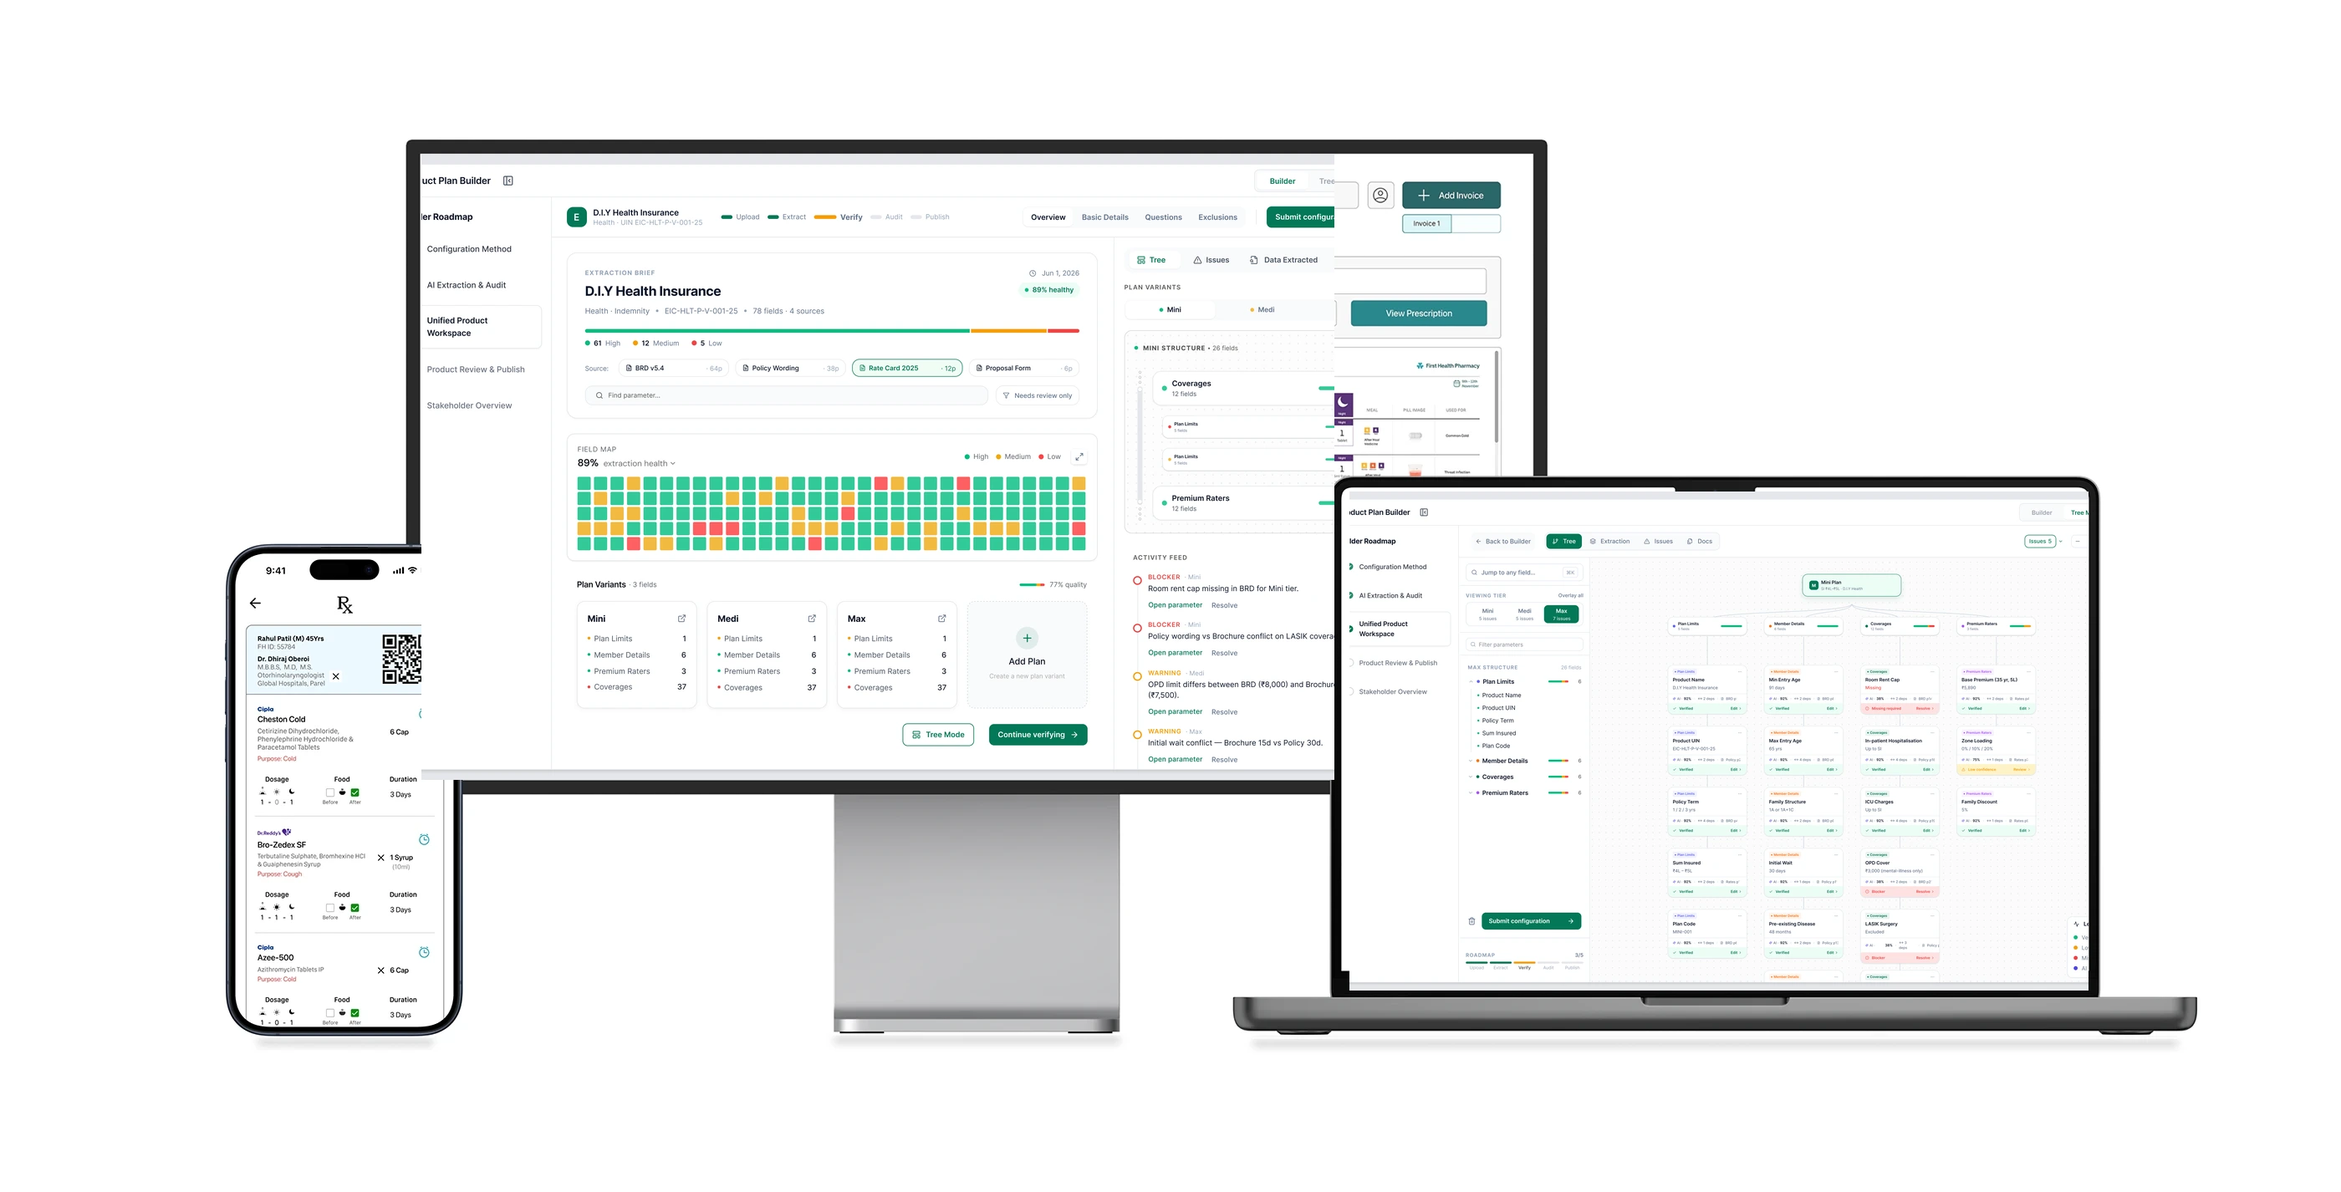
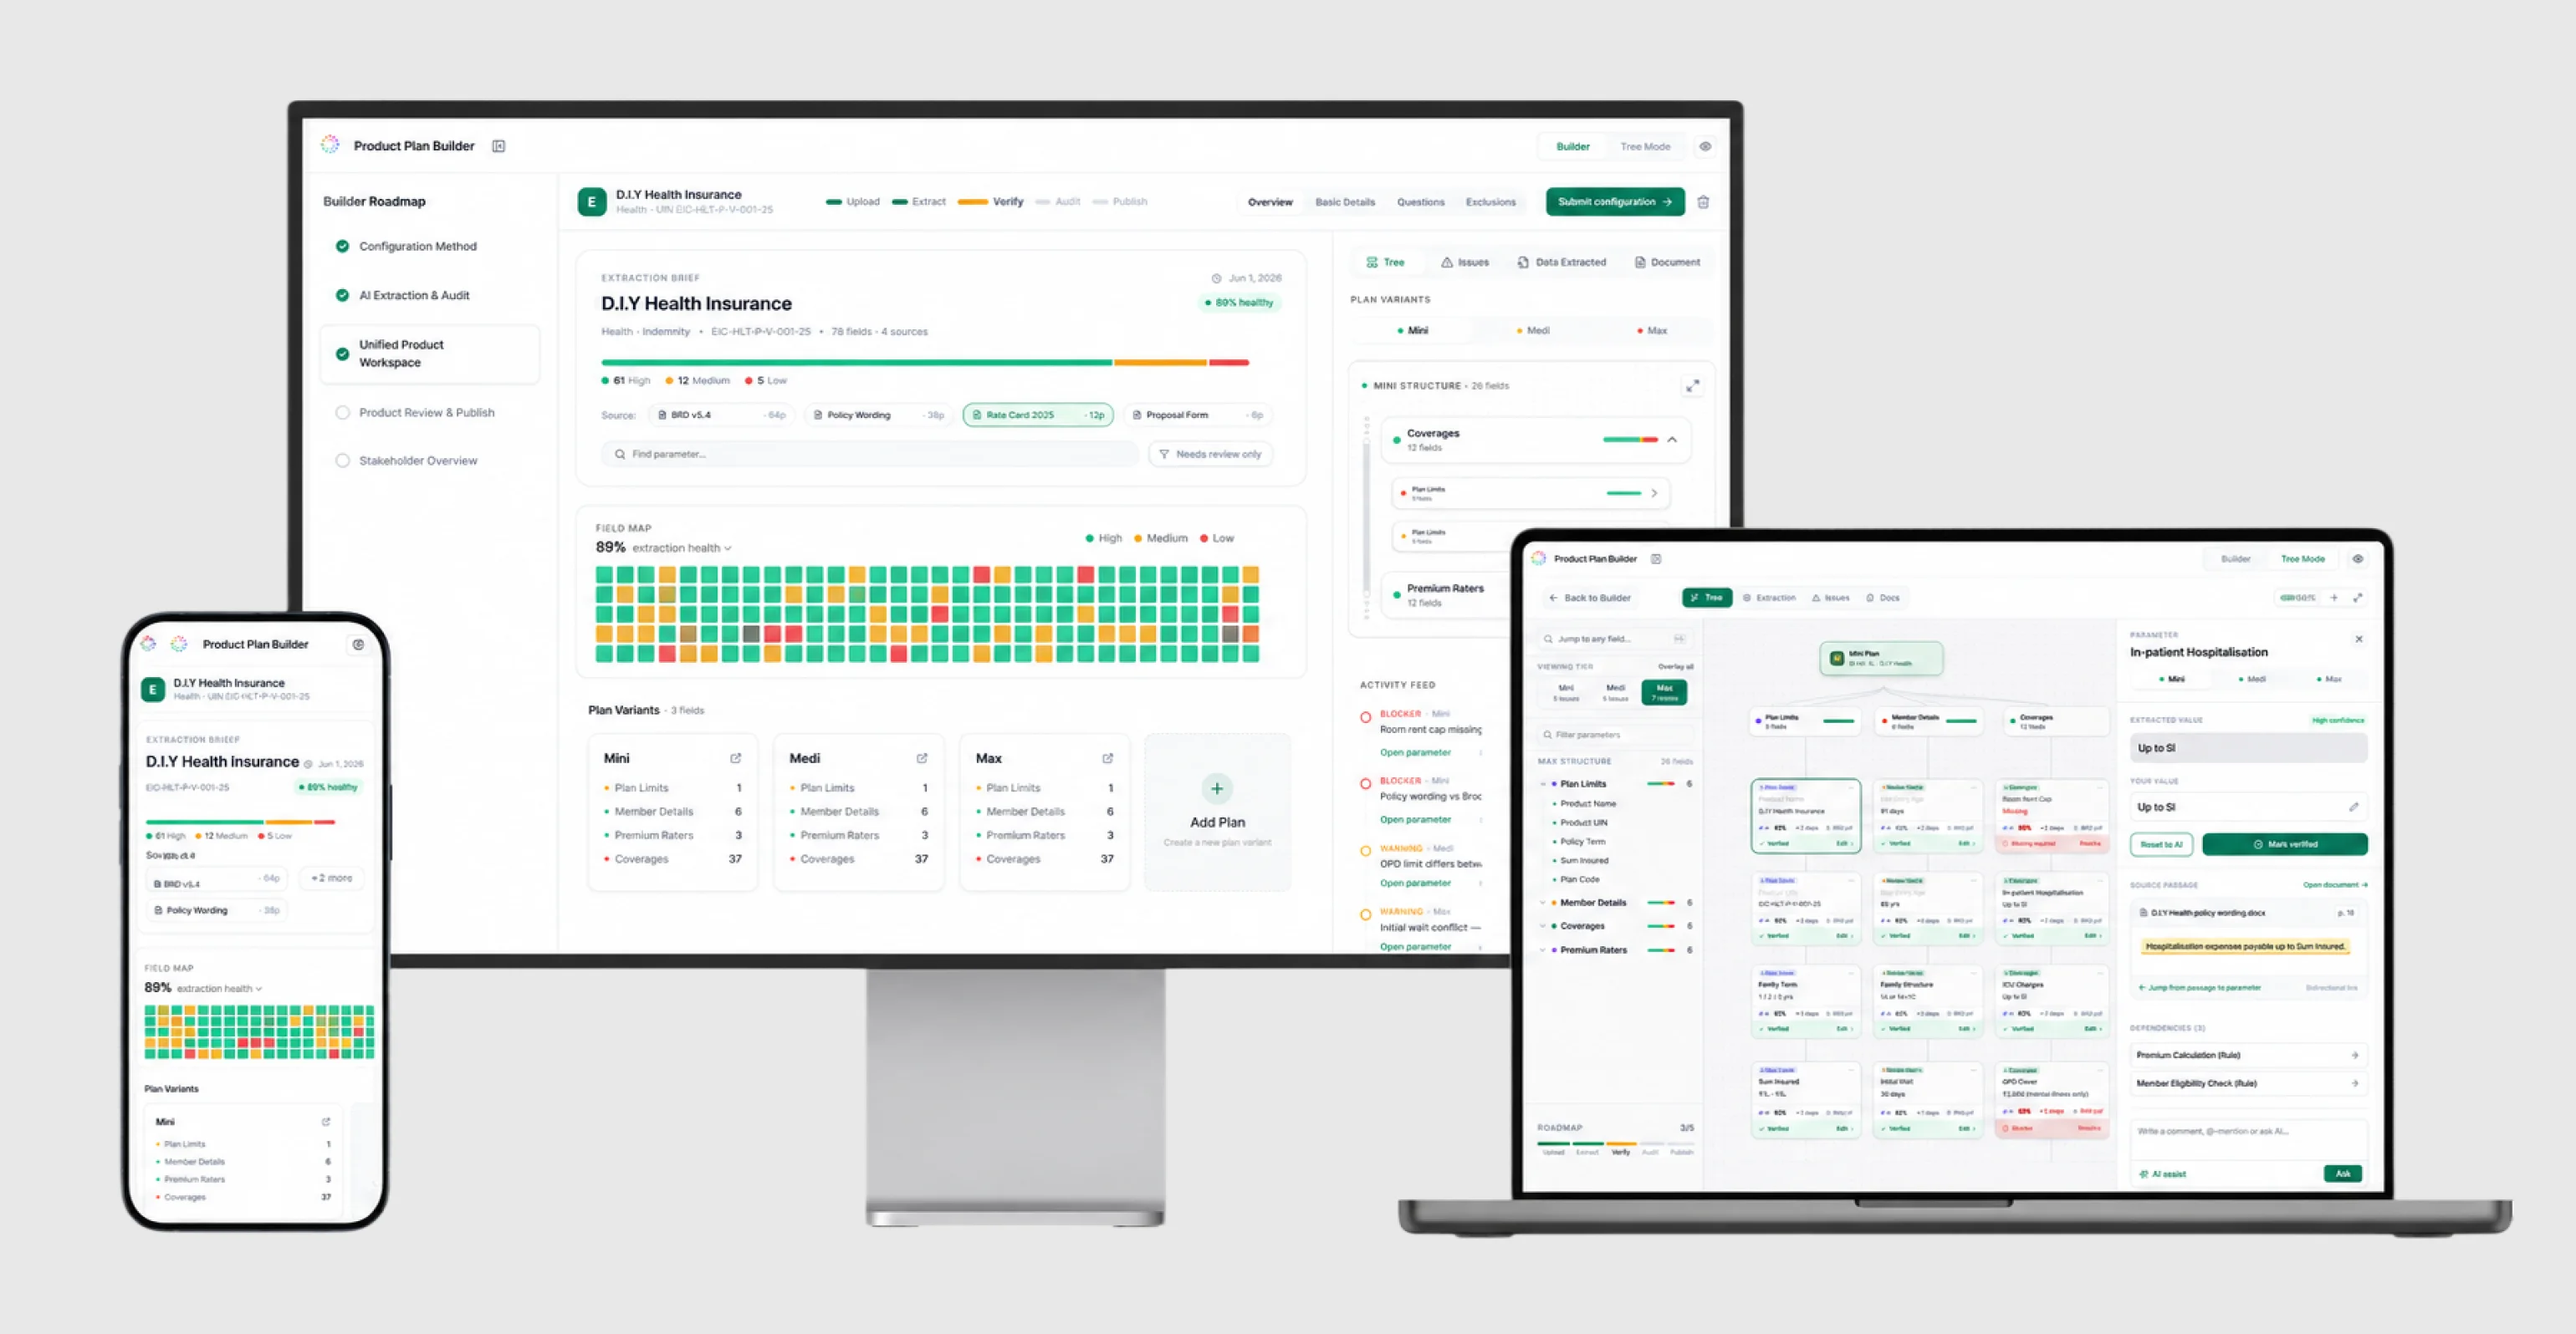
feat: replace Insure-Tech thumbnail with new multi-device mockup
- New 3080x1596 mockup shot (desktop monitor + iPhone + MacBook)
- Convert PNG (1.8MB) -> WebP (137KB) at quality 85 for faster load
- Point demoPoster at the .webp variant
- Keep the PNG fallback on disk for any direct references

diff --git a/src/app/types/projects.types.ts b/src/app/types/projects.types.ts
@@ -15,7 +15,7 @@ export const PROJECTS: ProjectContent[] = [
         slug: "insure-tech",
         description: "AI-powered insurance product configuration — from document upload to stakeholder-ready plans in minutes.",
         tags: ["AI", "Enterprise", "B2B"],
-        demoPoster: "/images/insure-tech-poster.png"
+        demoPoster: "/images/insure-tech-poster.webp"
     },
     {
         name: "Blinkit",
